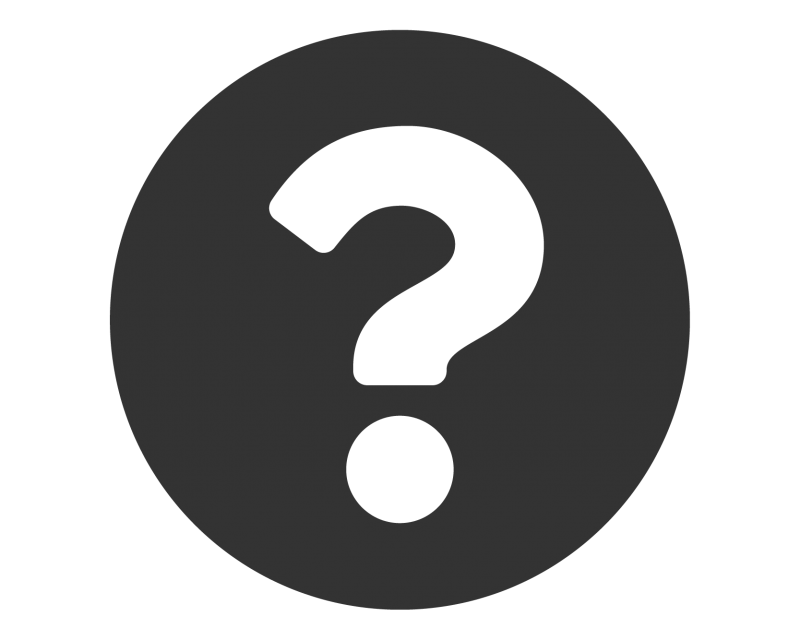
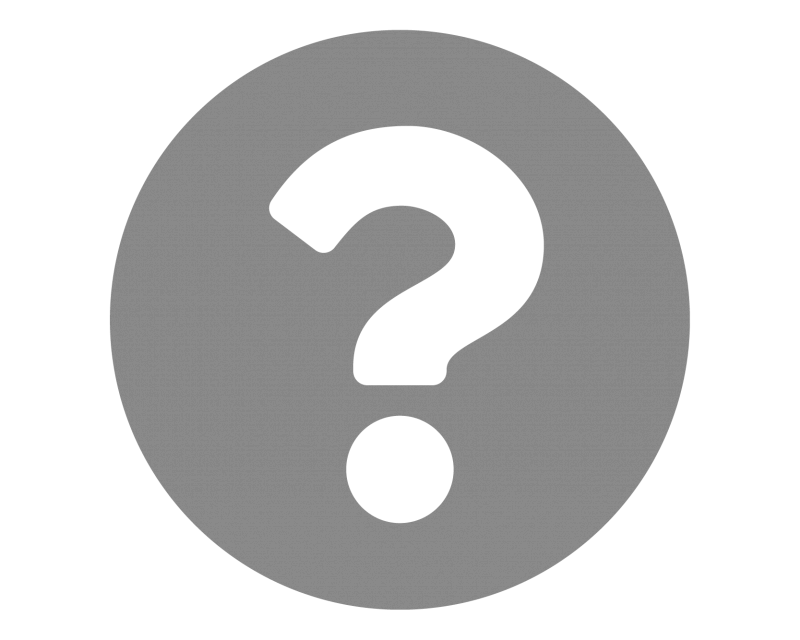
slight theming and styling

diff --git a/client/src/comp/Tx.js b/client/src/comp/Tx.js
@@ -87,11 +87,11 @@ function Tx({ apiRes, icon }) {
                                     <tr key={index} >
                                         {/* <th>{new Date(tx.metadata.blockTimestamp).toString()}</th> */}
                                         <td
-                                            className="has-tooltip-arrow has-tooltip-warning"
+                                            className="has-tooltip-arrow "
                                             data-tooltip={new Date(tx.metadata.blockTimestamp).toLocaleString()}>
                                             {tx.metadata.age}</td>
                                         <td
-                                            className="has-tooltip-arrow has-tooltip-primary is-clickable "
+                                            className="has-tooltip-arrow  is-clickable "
                                             data-tooltip={tx.hash}
                                             onClick={() => copyString(tx.hash)}>
                                             <span className="is-align-item-center">
@@ -102,6 +102,7 @@ function Tx({ apiRes, icon }) {
                                             </span>
                                         </td>
                                         <td
+                                            className="is-clickable"
                                             onClick={() => copyString(tx.blockNum)}>
                                             <span className="is-align-item-center">
                                                 <span>{blockNum}</span>
@@ -119,7 +120,7 @@ function Tx({ apiRes, icon }) {
 
                                         </td>
                                         <td
-                                            className="has-tooltip-arrow has-tooltip-primary"
+                                            className="has-tooltip-arrow"
                                             data-tooltip={otherAdd}
                                             onClick={() => copyString(otherAdd)}>
                                             <span className="is-align-item-center">

diff --git a/client/src/comp/Help.js b/client/src/comp/Help.js
@@ -73,17 +73,17 @@ function Help({ type }) {
                             {info[type].img.map((item, index) => (
 
                                 <div className="is-justify-content-center" key={index}>
+                                    <p className="strong">{item.text}</p>
                                     <figure className="image">
-                                        <img src={item.src} className="helpImg" alt={`${type} Help gif`} />
+                                        <img src={item.src} key={index} id="helpImg" alt={`${type} Help gif`} height="auto" />
                                     </figure >
 
-                                    <p className="strong">{item.text}</p>
                                 </div>
 
 
                             ))}
                         </section>
-                        <footer class="modal-card-foot">
+                        <footer className="modal-card-foot">
                             Here to file a bug report:
                         </footer>
                     </div>

diff --git a/client/src/cont/Nav.js b/client/src/cont/Nav.js
@@ -88,7 +88,7 @@ function Nav() {
                         <>
                             <div className="navbar-item" >
                                 <div
-                                    className="link is-clickable"
+                                    className="is-link is-clickable"
                                     onClick={() => handleSearch(net, address)}
                                 >
                                     Balances
@@ -96,7 +96,7 @@ function Nav() {
                             </div>
                             <div className="navbar-item">
                                 <div
-                                    className="link is-clickable"
+                                    className="is-link is-clickable"
                                     onClick={() => handleTxSearch(searchParams.network, searchParams.walletAdd)}
                                 >
                                     Transactions

diff --git a/client/src/App.scss b/client/src/App.scss
@@ -1,0 +1,39 @@
+@charset "utf-8";
+
+//custom Color
+//lightMode
+/* SCSS HEX */
+// $deep-sky-blue: #41C1F4ff;
+// $risd-blue: #0055FFff;
+// $white: #FBFDFEff;
+// $lavender-web: #ECE9FFff;
+// $electric-purple: #AD42F1ff;
+// $medium-slate-blue: #7559FFff;
+// $air-superiority-blue: #629CBCff;
+// $yale-blue: #223A60ff;
+// $bronze: #C5821Fff;
+// $fandango: #BA3989ff;
+
+$deep-sky-blue: hsla(197, 89%, 61%, 1);
+$risd-blue: hsla(220, 100%, 50%, 1);
+$white: hsla(200, 60%, 99%, 1);
+$lavender-web: hsla(248, 100%, 96%, 1);
+$electric-purple: hsla(277, 86%, 60%, 1);
+$medium-slate-blue: hsla(250, 100%, 67%, 1);
+$air-superiority-blue: hsla(201, 40%, 56%, 1);
+$yale-blue: hsla(217, 48%, 25%, 1);
+$bronze: rgb(255, 178, 63);
+$fandango: hsla(323, 53%, 48%, 1);
+
+@use "bulma/sass" with ($primary: $risd-blue,
+  $link: $medium-slate-blue,
+  $warning: $bronze,
+  $info: $electric-purple);
+
+
+
+#helpImg {
+  max-height: 100%;
+}
+
+;

diff --git a/client/src/index.scss b/client/src/index.scss
@@ -1,0 +1,17 @@
+@charset "utf-8";
+@import './App.scss';
+
+body {
+  margin: 0;
+  font-family: -apple-system, BlinkMacSystemFont, 'Segoe UI', 'Roboto', 'Oxygen',
+    'Ubuntu', 'Cantarell', 'Fira Sans', 'Droid Sans', 'Helvetica Neue',
+    sans-serif;
+  -webkit-font-smoothing: antialiased;
+  -moz-osx-font-smoothing: grayscale;
+}
+
+code {
+  font-family: source-code-pro, Menlo, Monaco, Consolas, 'Courier New',
+    monospace;
+}
+

diff --git a/client/src/App.js b/client/src/App.js
@@ -1,7 +1,7 @@
 
-import 'bulma/css/bulma.min.css'
+// import 'bulma/css/bulma.min.css'
 import '@creativebulma/bulma-tooltip/dist/bulma-tooltip.min.css';
-import './App.css';
+import './App.scss';
 
 import { BrowserRouter as Router, Route, Routes, Navigate } from 'react-router-dom';
 
